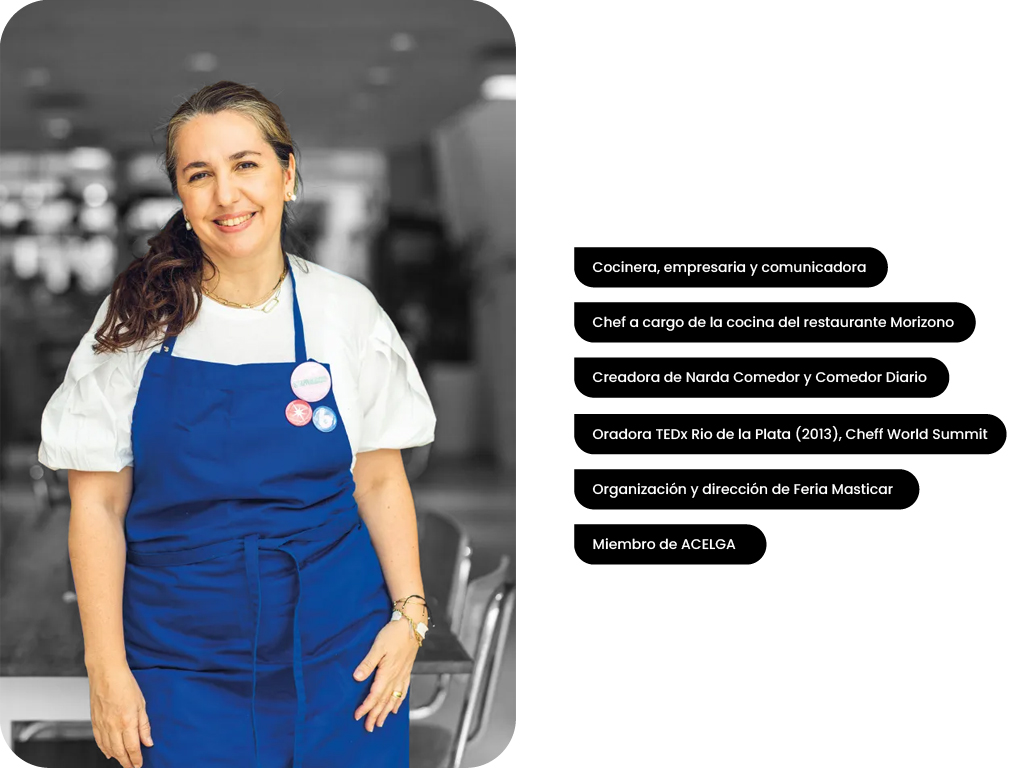
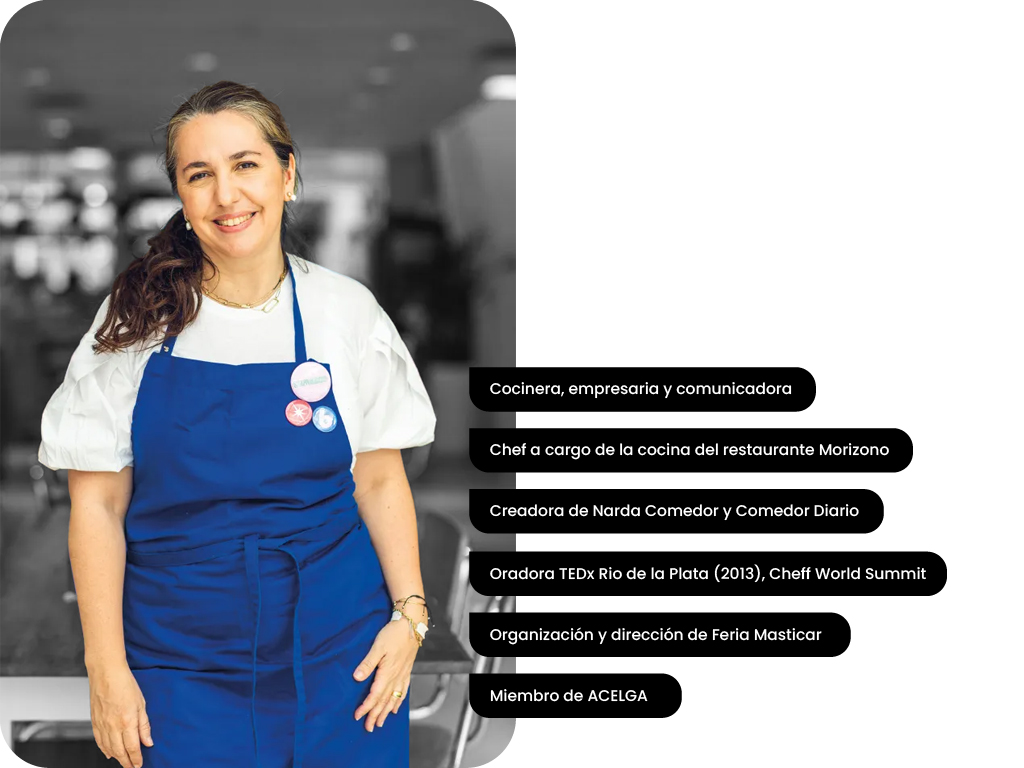
profesionales

Changed region(s): [[0.4375, 0.3125, 1.0, 0.9375]]

diff --git a/assets/css/main.css b/assets/css/main.css
@@ -1182,9 +1182,17 @@ section,
 --------------------------------------------------------------*/
 .trainers-index .member {
   border-radius: 40px;
+  background-color: #ffffff;
   text-align: center;
   margin-bottom: 20px;
   box-shadow: 0 8px 28px color-mix(in srgb, var(--accent-color), transparent 90%);
+}
+
+.trainers-index {
+  background-image: url("../img/hero/hero3.png");
+  background-position: center bottom;
+  background-repeat: no-repeat;
+  background-size: cover;
 }
 
 .trainers-index .member img {

diff --git a/index.html b/index.html
@@ -427,7 +427,9 @@
 
       <div class="container">
 
-        <div class="row">
+        <div class="container" style="height: 650px; background-image: url('../img/hero/hero3.png'); background-repeat: no-repeat; background-size: cover; background-position: center bottom">
+          <div class="row">
+
 
           <div class="col-lg-4 col-md-6 d-flex" data-aos="fade-up" data-aos-delay="100">
             <div class="member">
